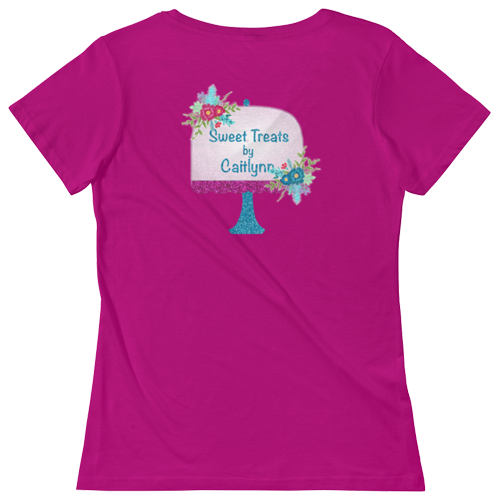
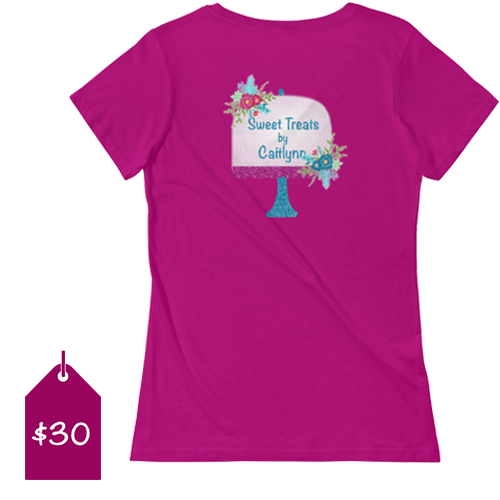
added merch

diff --git a/index.css b/index.css
@@ -131,24 +131,6 @@ p, h2 {
   border: 3px solid #990661;
 }
 
-
-/* .contact-me_btn {
-  font-size: 1em;
-  border-radius: 20px;
-  border: 3px solid #990661;
-  color: rgb(76, 255, 255);
-  padding: 3px 10px;
-  margin-top: 15px;
-  background-image: url(/images/pink-glitter.jpeg);
-}
-
-.contact-me_btn:hover {
-  background-color: #990661;
-  color: #990661;
-  border: 3px solid #990661;
-  background: none;
-} */
-
 .contact-me_btn {
   background: none;
   border: none;
@@ -204,4 +186,26 @@ p, h2 {
 .recaptcha {
   width: 300px;
   margin: 0 auto;
+}
+
+.merch {
+  background-image: url(/images/paper.jpeg);
+  height:100%;
+  border-bottom: 0.6em solid black;
+  display: flex;
+  align-items: center;
+  justify-content: center;
+}
+
+.merch-img {
+  width: 100%;
+  height: auto;
+  margin-top: 5px;
+  margin-bottom: 5px;
+}
+
+.merch-img:hover {
+  width: 105%;
+  margin-top: 0px;
+  margin-bottom: 0px;
 }

diff --git a/index.html b/index.html
@@ -179,6 +179,17 @@
         </div>
         <!-- <div class="grid-item large bottom-banner"></div> -->
       </div>
+      <div class="merch">
+        <a class="merch-img" target=”_blank” rel="nofollow" href="https://streamlabs.com/caitlynngiles#/merch">
+          <img class="merch-img" src="./images/sweet-treats-shirt.png" alt="sweet treats shirt">
+        </a>
+        <a class="merch-img" target=”_blank” rel="nofollow" href="https://streamlabs.com/caitlynngiles#/merch">
+          <img class="merch-img" src="./images/sweet-treats-mug.png" alt="sweet treats mug">
+        </a>
+        <a class="merch-img" target=”_blank” rel="nofollow" href="https://streamlabs.com/caitlynngiles#/merch">
+          <img class="merch-img" src="./images/cake-decorators.png" alt="sweet treats tank top">
+        </a>
+      </div>
 
 <!-- Contact me form -->
       <div class="contact-me-shell">
